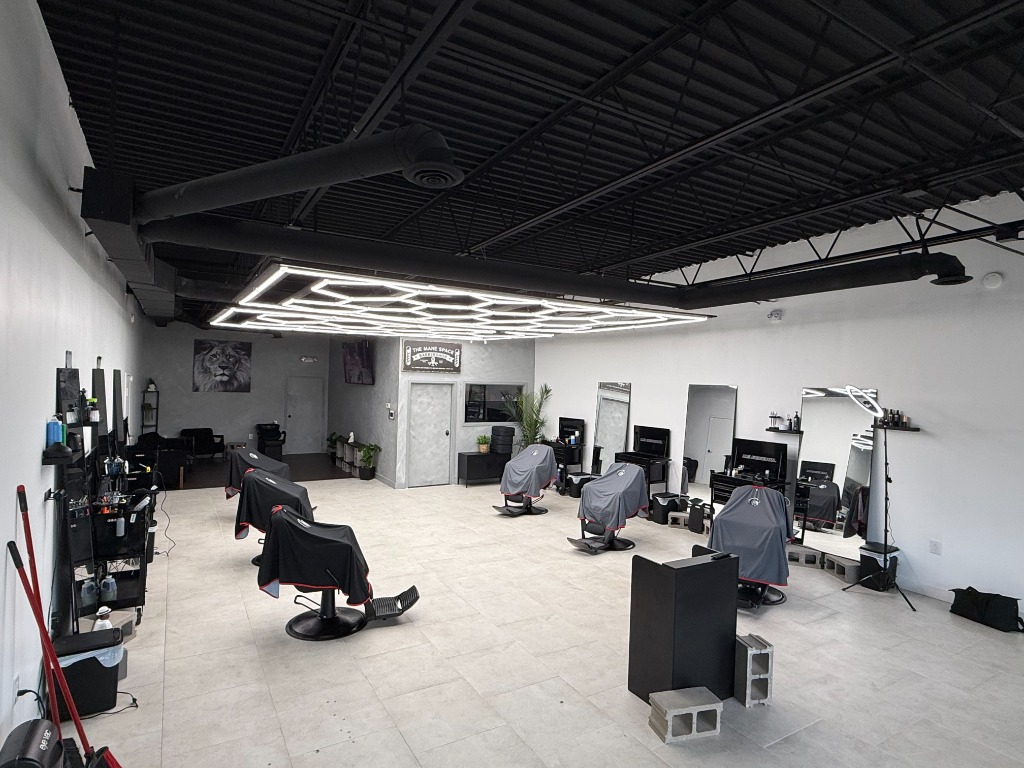
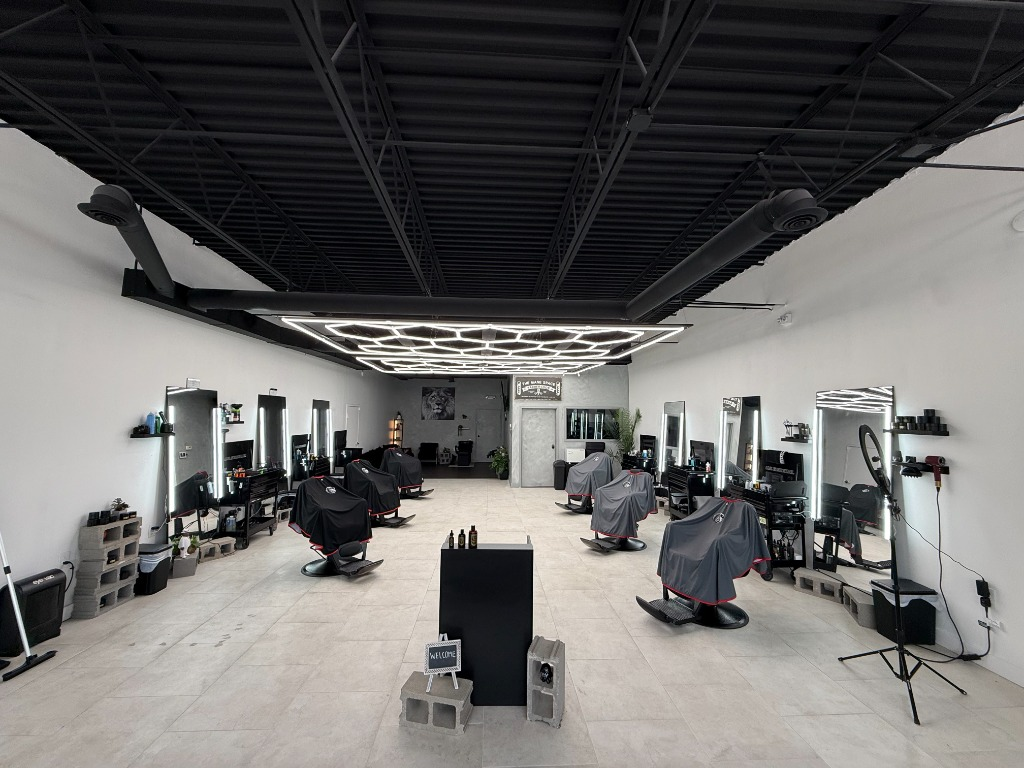
Update store hours and replace hero image

diff --git a/src/pages/Home.jsx b/src/pages/Home.jsx
@@ -232,7 +232,7 @@ const Home = () => {
                         <div className="faq-list">
                             <div className="faq-item">
                                 <h3>What are your hours?</h3>
-                                <p>Monday - Closed<br />Tuesday - Thursday 10am - 7pm<br />Friday - Saturday 9am - 5pm<br />Sunday - 9am - 4pm</p>
+                                <p>Monday - Closed<br />Tuesday - Friday 10am - 7pm<br />Saturday - Sunday 9am - 5pm</p>
                             </div>
                             <div className="faq-item">
                                 <h3>Do I need an appointment?</h3>
